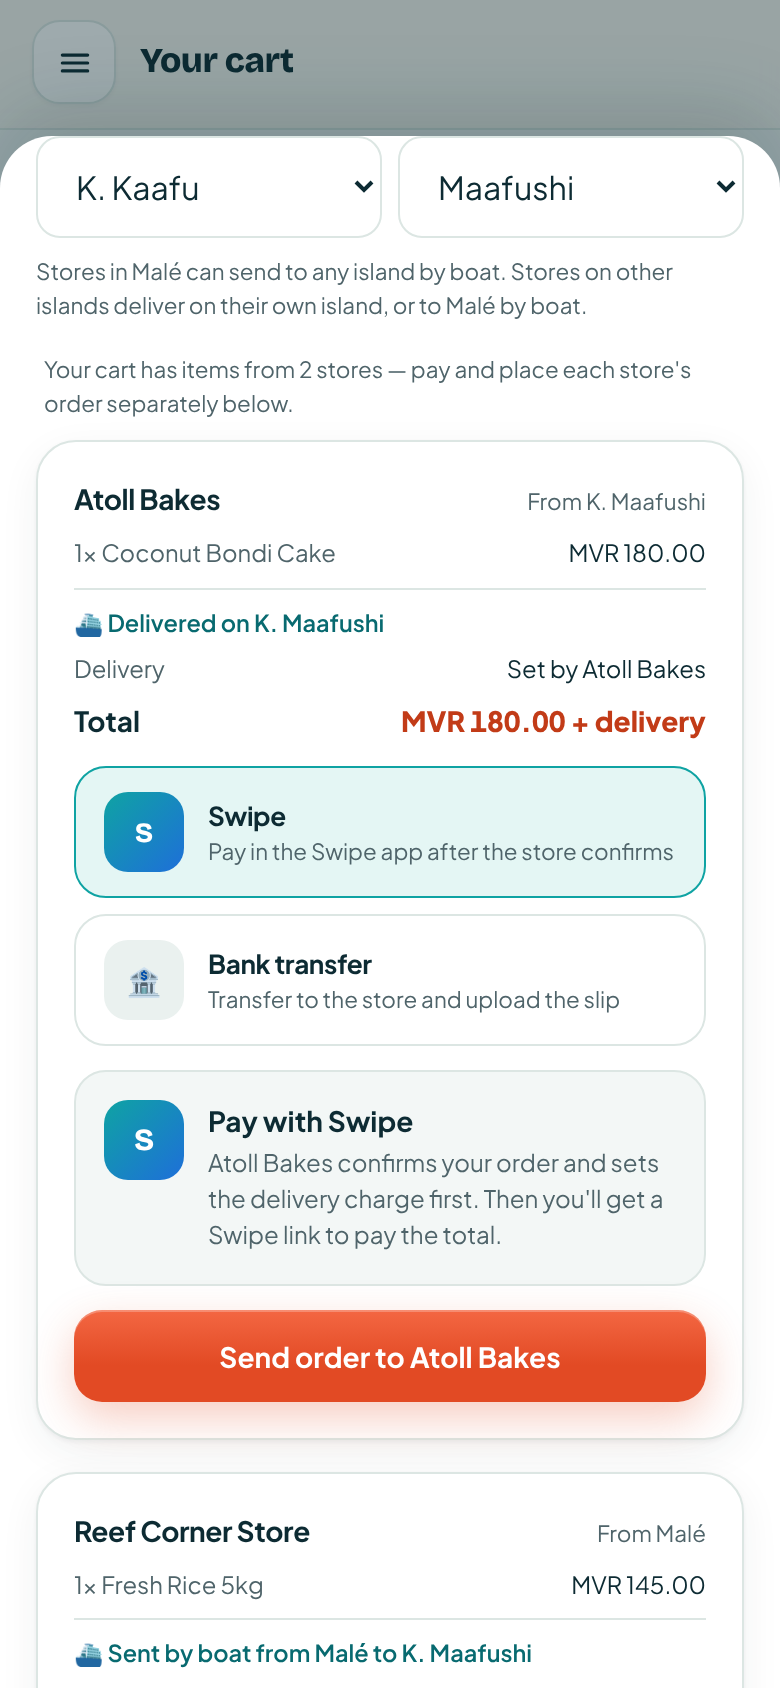
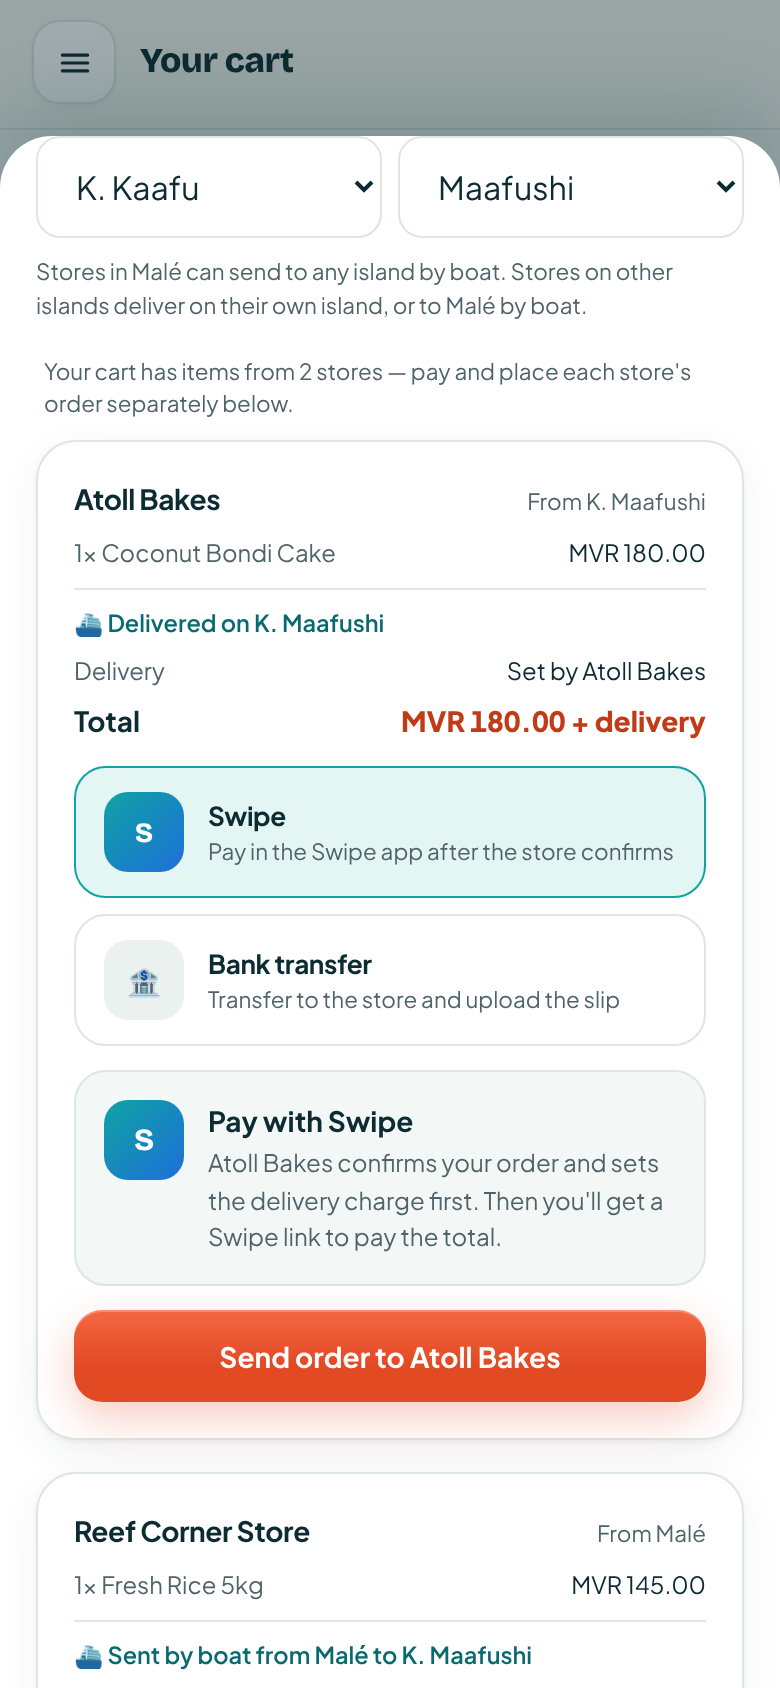
Checkout: island orders switch to Deliver to a boat automatically
When the destination is another island and a Greater Malé store ships it by
boat (or Another island is picked), Deliver to switches to a boat with a note;
switching back to Greater Malé reverts it. Local island deliveries stay on a
person, and a customer's own choice is kept. The choice now survives
re-renders of the checkout sheet.

Claude-Session: https://claude.ai/code/session_01LBusJKdtL6KFszjagtJwPB

diff --git a/index.html b/index.html
@@ -4652,7 +4652,7 @@ function confirmSwitchOverlayHTML(){
 // meantime a moment after it appeared. Every open/close bumps the generation;
 // a pending close only actually clears the sheet if nothing newer has happened.
 let _sheetGen = 0;
-function openSheet(name, data=null){ _sheetGen++; if(name!==state.sheet) _addrDefaultsApplied = false; state.sheet = name; state.sheetData = data; state.sheetClosing = false; render(); const el=document.getElementById('sheetWrap'); if(el) requestAnimationFrame(()=>el.classList.add('show')); }
+function openSheet(name, data=null){ _sheetGen++; if(name!==state.sheet){ _addrDefaultsApplied = false; _deliverTargetMode = 'person'; _boatAuto = false; _targetByUser = false; } state.sheet = name; state.sheetData = data; state.sheetClosing = false; render(); const el=document.getElementById('sheetWrap'); if(el) requestAnimationFrame(()=>el.classList.add('show')); }
 function closeSheet(){ if(state.sheet==='verifyEmail' || state.sheet==='setupMobile') return; const myGen = ++_sheetGen; const el=document.getElementById('sheetWrap'); if(el){ el.classList.remove('show'); state.sheetClosing = true; setTimeout(()=>{ if(_sheetGen!==myGen) return; state.sheet=null; state.sheetData=null; state.sheetClosing=false; render(); },180);} else { state.sheet=null; render(); } }
 
 function sheetHTML(){
@@ -9000,14 +9000,14 @@ function checkoutDestKey(){
   return _destIsland || '';
 }
 function setDestMode(m){
-  _destMode = m;
+  _destMode = m; setTimeout(applyAutoDeliveryTarget, 0);
   const a = document.getElementById('destTab_male'), b = document.getElementById('destTab_island');
   if(a) a.classList.toggle('active', m==='male'); if(b) b.classList.toggle('active', m==='island');
   const mb = document.getElementById('destMaleBox'), ib = document.getElementById('destIslandBox');
   if(mb) mb.classList.toggle('hidden', m!=='male'); if(ib) ib.classList.toggle('hidden', m!=='island');
   refreshCheckoutCards();
 }
-function setDestIsland(k){ _destIsland = k || ''; refreshCheckoutCards(); }
+function setDestIsland(k){ _destIsland = k || ''; refreshCheckoutCards(); applyAutoDeliveryTarget(); }
 function refreshCheckoutCards(){
   const box = document.getElementById('ckStores'); if(!box) return;
   const entries = Object.entries(state.cart);
@@ -9097,14 +9097,14 @@ function deliveryTargetFieldsHTML(){
   <div class="field">
     <label>Deliver to</label>
     <div class="tabs">
-      <button type="button" class="tab active" id="deliverTabPerson" style="flex:1; text-align:center;" onclick="setDeliveryTarget('person')">Deliver to a person</button>
-      <button type="button" class="tab" id="deliverTabBoat" style="flex:1; text-align:center;" onclick="setDeliveryTarget('boat')">Deliver to a boat</button>
+      <button type="button" class="tab ${_deliverTargetMode!=='boat'?'active':''}" id="deliverTabPerson" style="flex:1; text-align:center;" onclick="setDeliveryTarget('person', true)">Deliver to a person</button>
+      <button type="button" class="tab ${_deliverTargetMode==='boat'?'active':''}" id="deliverTabBoat" style="flex:1; text-align:center;" onclick="setDeliveryTarget('boat', true)">Deliver to a boat</button>
     </div>
   </div>
-  <input type="hidden" id="c_delivery_target" value="person">
+  <input type="hidden" id="c_delivery_target" value="${_deliverTargetMode==='boat'?'boat':'person'}">
   <input type="hidden" id="c_recv_mode" value="self">
   <input type="hidden" id="c_recv_self_name" value="${escapeAttr(selfName)}">
-  <div id="personFields">
+  <div id="personFields" class="${_deliverTargetMode==='boat'?'hidden':''}">
     <div id="recvOwnBlock">
       ${ownList.length>1 ? `
       <div class="field">
@@ -9135,7 +9135,8 @@ function deliveryTargetFieldsHTML(){
       <button type="button" class="link-btn" onclick="switchDeliverToSelf()">Deliver to me instead</button>
     </div>
   </div>
-  <div id="boatFields" class="hidden">
+  <div id="boatFields" class="${_deliverTargetMode==='boat'?'':'hidden'}">
+    <p id="boatAutoNote" class="addr-note ${_boatAuto && _deliverTargetMode==='boat'?'':'hidden'}">⛴ Orders to other islands go by boat, so we switched to <strong>Deliver to a boat</strong>. Enter the boat that will carry it.</p>
     ${boatList.length>1 ? `
     <div class="field">
       <label>Saved boats</label>
@@ -9185,7 +9186,33 @@ function readDeliveryTargetFields(){
 // Switches which set of receiver fields is shown/required - a direct DOM toggle
 // (mirrors setAddItemListingType() in Add Item) rather than a full render(), so any
 // receiver details already typed for the other option aren't wiped by switching back.
-function setDeliveryTarget(type){
+// Island orders that travel by boat (a Greater Malé store sending to an
+// island, or "Another island" picked) switch to "Deliver to a boat" by
+// themselves; going back to Greater Malé switches back if it was automatic.
+let _deliverTargetMode = 'person', _boatAuto = false, _targetByUser = false;
+function checkoutLineGroups(){
+  const entries = Object.entries(state.cart||{});
+  const allLines = entries.map(([id,qty])=>{ const it = DB.items.find(i=>i.id===id); return {it,qty}; }).filter(x=>x.it);
+  return groupCartLinesByBusiness(cartCheckoutLines(allLines));
+}
+function checkoutNeedsBoat(){
+  if(_destMode!=='island') return false;
+  if(!_destIsland) return true;
+  const routes = checkoutLineGroups().map(g=>routeFor(bizIsland(g.biz), _destIsland)).filter(Boolean);
+  if(!routes.length) return true;
+  return routes.some(r=>r==='boat_to_island');
+}
+function applyAutoDeliveryTarget(){
+  if(!document.getElementById('ckStores') || !document.getElementById('c_delivery_target')) return;
+  if(_targetByUser) return;   // the customer picked person / boat themselves
+  const want = checkoutNeedsBoat();
+  if(want && _deliverTargetMode!=='boat'){ setDeliveryTarget('boat'); _boatAuto = true; }
+  else if(!want && _deliverTargetMode==='boat' && _boatAuto){ setDeliveryTarget('person'); _boatAuto = false; }
+  const note = document.getElementById('boatAutoNote'); if(note) note.classList.toggle('hidden', !(_boatAuto && _deliverTargetMode==='boat'));
+}
+function setDeliveryTarget(type, byUser){
+  _deliverTargetMode = type; if(byUser){ _boatAuto = false; _targetByUser = true; }
+  const note = document.getElementById('boatAutoNote'); if(note && byUser) note.classList.add('hidden');
   document.getElementById('c_delivery_target').value = type;
   document.getElementById('deliverTabPerson').classList.toggle('active', type==='person');
   document.getElementById('deliverTabBoat').classList.toggle('active', type==='boat');
@@ -9313,6 +9340,7 @@ function refreshCheckoutTotals(){
 function goCheckout(){
   if(sb && !state.authed){ state.pendingItemAction = {type:'checkout'}; openSheet('signIn', {intent:'checkout'}); return; }
   openSheet('checkout');
+  applyAutoDeliveryTarget();   // e.g. default address on another island
 }
 // Renting is a single-item flow (pick a duration, then pickup/deliver + payment),
 // not a cart-quantity flow like Buy Now - modeled on sheetCheckout/placeOrder, but

diff --git a/CLAUDE.md b/CLAUDE.md
@@ -21,6 +21,7 @@ Maldexpress: a marketplace + delivery app for the Maldives. Three portals in one
 - Free tier: 30 days from `joinDate`, max 10 items. Pro tier (MVR 500 one-time): max 500 items, no expiry.
 - **Island-wise delivery** (`routeFor()` in index.html, `orders.route`): stores and riders each pick an atoll + island (`ATOLLS`). Greater Malé (Malé, Hulhumalé, Villimalé) → Greater Malé uses the zone fees below (`male_zone`). Greater Malé → any island goes by boat (`boat_to_island`); an island store can deliver on its own island (`local`) or send to Malé by boat (`boat_to_male`), but never to a different island (blocked at checkout). For every non-zone route the store sets the delivery charge when it approves (`approve_swipe_order(p_order_id, p_delivery_charge)`), which updates `delivery_fee`, `delivery_partner_payout` and `total`. Migration: `supabase/migrations/2026-11-08_islands.sql`.
 - **Riders are island-wise**: a rider sees open jobs from stores on their own island (all of Greater Malé counts as one area), plus, while **online** with a GPS fix under 30 minutes old, jobs from stores within `NEARBY_KM` (20 km) of the store's saved location. New jobs alert inside the app (toast + vibrate + nav badge) on the 8 s live poll. Stores save their GPS location in Settings.
+- **Island orders go to a boat**: at checkout, when the destination is another island and a Greater Malé store is sending it by boat (or no island is picked yet), "Deliver to" switches to **Deliver to a boat** automatically (`applyAutoDeliveryTarget()` / `checkoutNeedsBoat()`), with a note; back to Greater Malé switches back. If every store in the order is on that island (local delivery) it stays on a person. Once the customer taps person/boat themselves, it isn't switched again for that checkout.
 - Delivery fee is a **flat amount by zone**, not a percentage: Malé MVR 15, Hulhumalé Phase 1 MVR 20, Hulhumalé Phase 2 MVR 25. Chosen by the customer at checkout.
 - **Buy now orders are paid by Swipe or bank transfer** (cash on delivery was removed). A store can list and sell **without Swipe**: it needs either a connected Swipe account or a bank account number (`bizCanTakeOrders()`). At checkout each store card offers Swipe and/or Bank transfer (`ckPayFor()`; transfer only if no Swipe, Swipe only if no bank account). Both start as `payment_status 'awaiting_approval'`; the store approves (`approveOrderRequest()`, setting the boat / island delivery charge) or declines (`decline_order_request`). Swipe: → `awaiting_swipe` → customer pays on a Swipe link created on the **store's own Swipe account** (edge function `create-order-payment`) → `swipe-order-webhook?business=<id>` → `paid`. Transfer: `approve_transfer_order` → `pending_transfer` → customer uploads the slip (amount and account number must match) → `slip_uploaded` → store approves the slip (`approve_order_payment`) → `paid`. A Buy now order can't go to a rider until it's paid (`buyNowNeedsPayment()`), and riders never collect cash for it; the store owes the rider the delivery fee after delivery. Migration: `supabase/migrations/2026-11-10_buy_now_bank_transfer.sql`.
 - **Fees**: on a Buy now bank-transfer order Maldexpress takes 5% (`TRANSFER_FEE_RATE`, recorded by `approve_order_payment` when the slip is approved). **On Swipe orders** Maldexpress takes 5% of the order total; Swipe's 1% charge is split 1:1 between the store and Maldexpress. So per order the store owes Maldexpress `5% − 0.5% = 4.5%` (`platform_fee_due`) and keeps 94.5%. Swipe has no split-payment API, so fees are tracked per order and settled by an admin (Admin → Fees). Rates live in `SWIPE_FEES` (index.html) and the webhook — keep them in sync.
